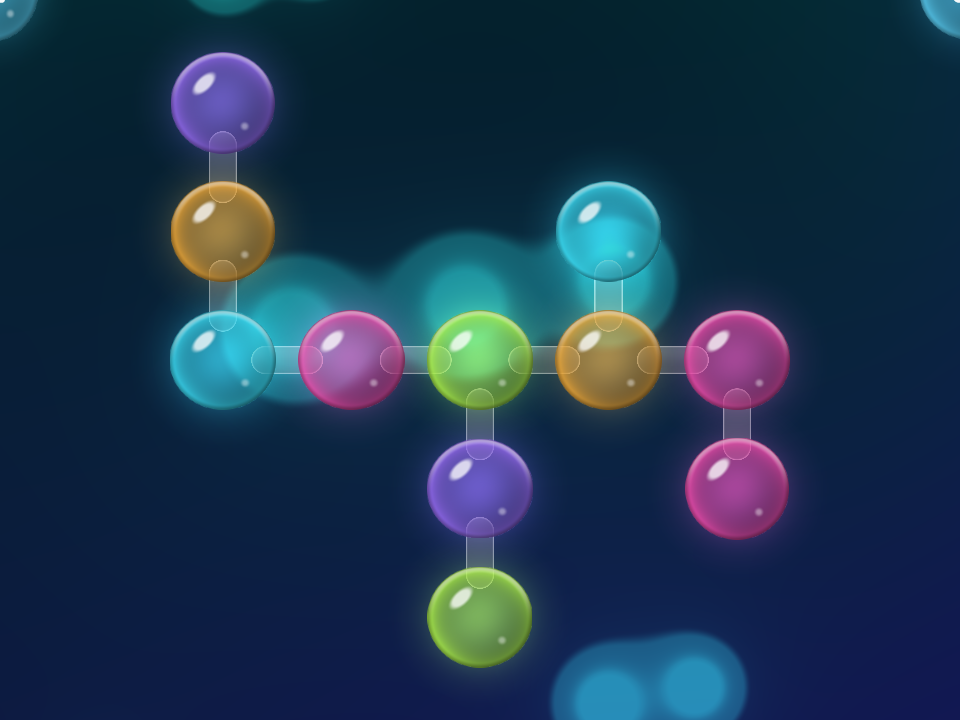
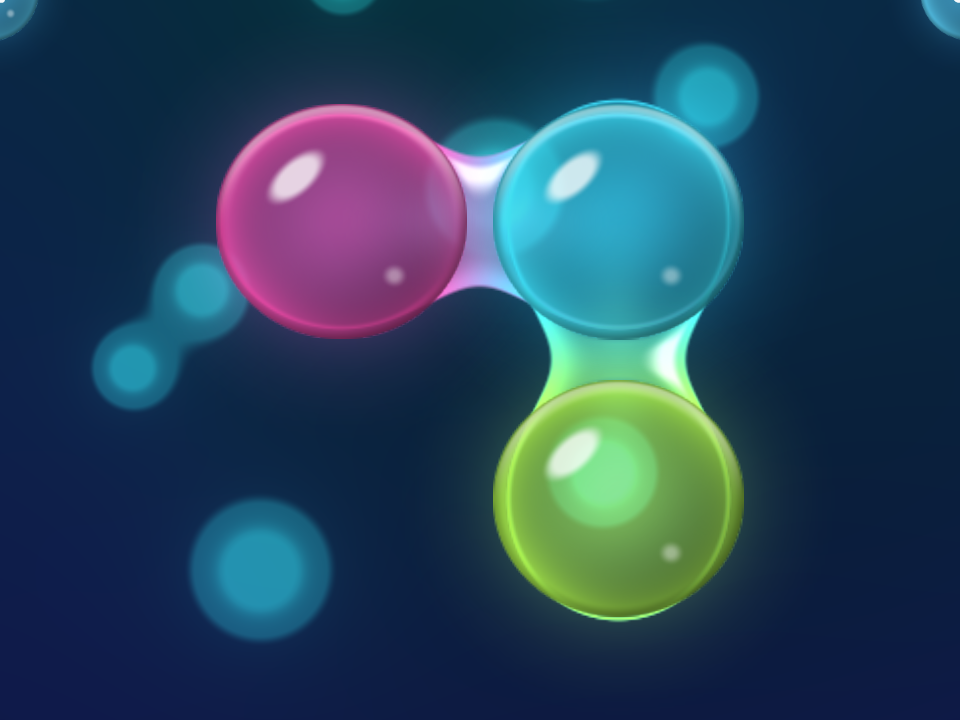
Heaps version: liquid filaments between compatible atoms
Two neighbour atoms placed as two atoms of the molecule are (same colors,
side by side the same way) are joined by a liquid bridge, even if they
are not the ones that end up together. The rule is in the model
(Game.links, tested); the bridge grows with a small bounce when the atom
stops, breathes, and breaks when they part. The molecule view joins its
atoms the same way.

Claude-Session: https://claude.ai/code/session_01QEp7r2FhvHdaSxyLp8Ttsk

diff --git a/heaps/README.md b/heaps/README.md
@@ -4,7 +4,7 @@ Portage du jeu Java (`../src`) sur [Heaps](https://heaps.io) : même génératio
 règles, mêmes trois vues (menu, plateau, molécule) et mêmes contrôles à la souris. Le jeu tourne
 dans un navigateur (WebGL) et en natif avec HashLink.
 
-<img src="screenshot-menu.png" alt="Menu" width="300"/> <img src="screenshot.png" alt="Niveau 59" width="300"/> <img src="screenshot-molecule.png" alt="Molécule" width="300"/>
+<img src="screenshot-menu.png" alt="Menu" width="300"/> <img src="screenshot.png" alt="Niveau 59" width="300"/> <img src="screenshot-molecule.png" alt="Molécule" width="300"/> <img src="screenshot-links.png" alt="Filaments entre atomes compatibles" width="300"/>
 
 ## Design
 
@@ -16,6 +16,11 @@ il n'y a aucune image à part la police :
   plateau sombre, molécule bleu-vert).
 - **Atomes** : des bulles translucides (corps teinté par la couleur de l'atome, reflets, halo)
   qui ondulent doucement ; l'atome sélectionné brille plus, un atome glisse avec une animation.
+- **Filaments liquides** : deux atomes voisins placés comme deux atomes de la molécule (mêmes
+  couleurs, côte à côte dans le même sens) sont reliés par un pont liquide, même si ce ne sont
+  pas eux qui formeront la molécule au final (`Game.links`). Le pont se forme avec un léger
+  rebond quand l'atome s'arrête, respire, et se rompt quand ils se séparent. La vue molécule
+  relie ses atomes de la même façon.
 - **Sol** (`src/view/FloorArt.hx`) : une seule texture où tous les angles sont arrondis, ceux du
   sol comme ceux des murs, avec une dalle vitrée par case, un liseré lumineux et un halo.
 - **Interface** : boutons-bulles avec icônes, boutons du menu en verre, police arrondie Fredoka
